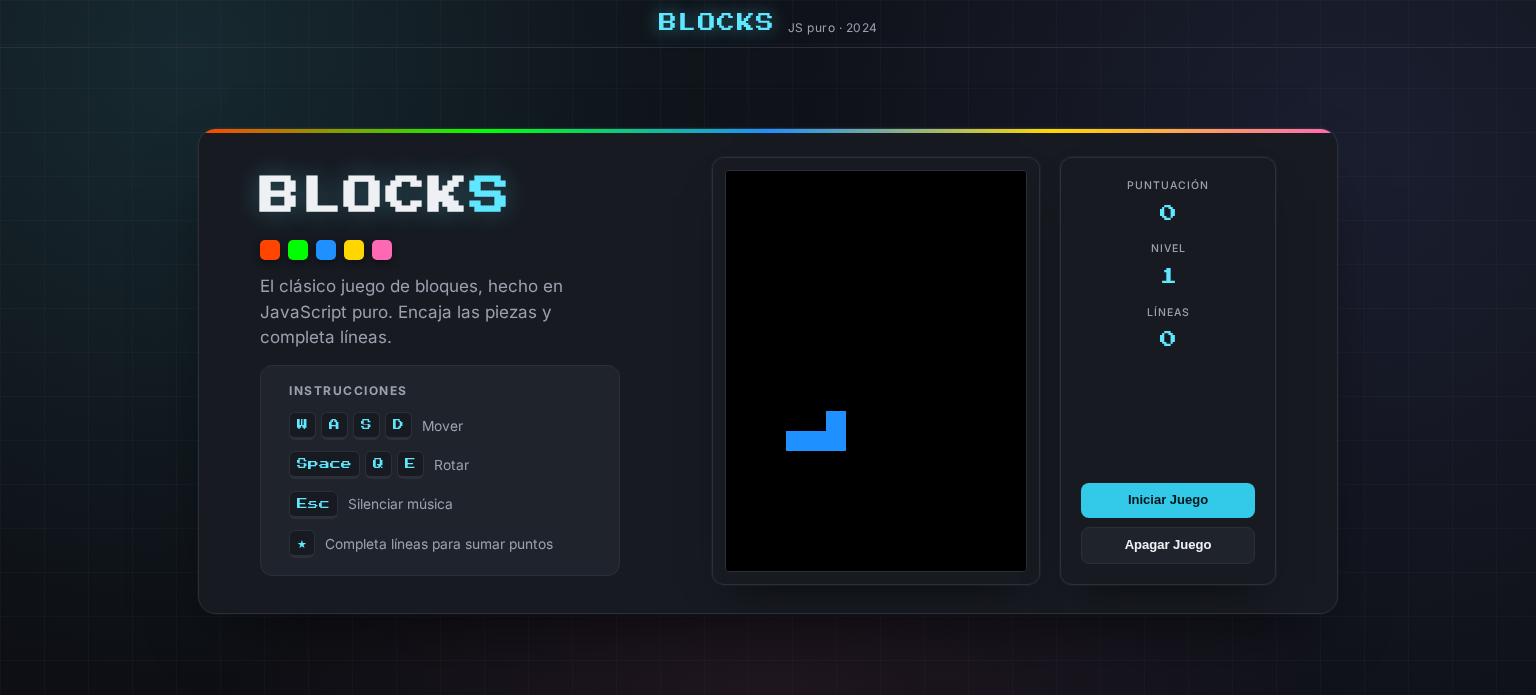
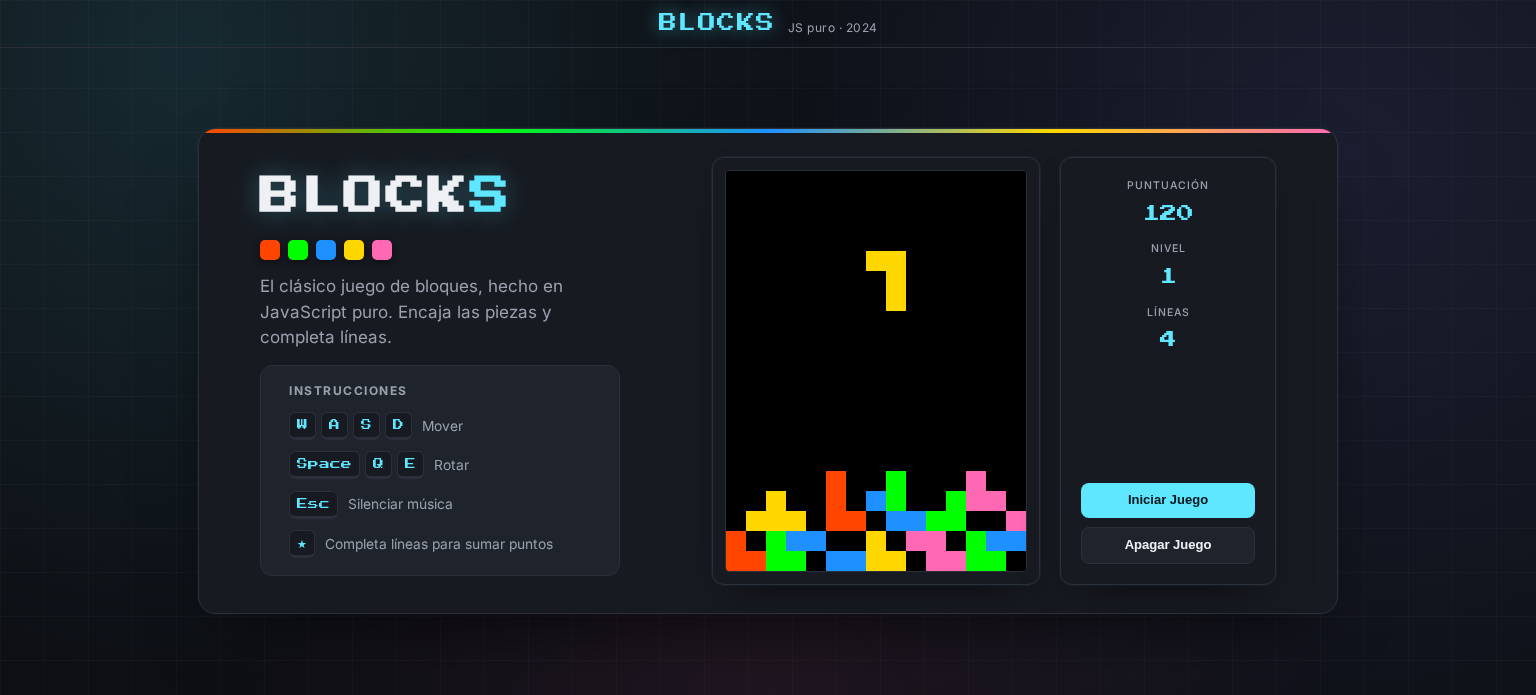
Update Readme

Changed region(s): [[0.4688, 0.5741, 0.8438, 0.846], [0.5625, 0.3626, 0.5938, 0.4532], [0.75, 0.3022, 0.7812, 0.3324]]

diff --git a/README.md b/README.md
@@ -1,20 +1,16 @@
 # Blocks Game
 
-A small legacy browser game built with plain JavaScript, HTML Canvas, and CSS.
+A small falling-block puzzle game built with plain JavaScript, HTML Canvas, and CSS.
 
-This project is a rescued portfolio piece: the original gameplay logic was kept intentionally close to its early version, while the presentation, folder structure, and visual polish were updated so it can stand as a clean showcase of older work.
+This was my first JavaScript project. It uses Canvas for rendering, keyboard events for player input, and plain JavaScript classes to handle the game state, pieces, movement, rotation, and row clearing.
+
+The project does not use a framework, bundler, or package manager. It is intentionally simple and runs directly in the browser.
 
 ![Blocks Game overview](docs/screenshots/overview.png)
 
 ## Gameplay Preview
 
 ![Blocks Game gameplay](docs/screenshots/gameplay.png)
-
-## About
-
-Blocks Game is a falling-block puzzle game inspired by classic block-stacking mechanics. Pieces spawn at the top of the board, move through a grid, rotate, settle, and can clear completed rows for points.
-
-The project does not use a framework, bundler, or package manager. It is intentionally simple and runs directly in the browser.
 
 ## Features
 